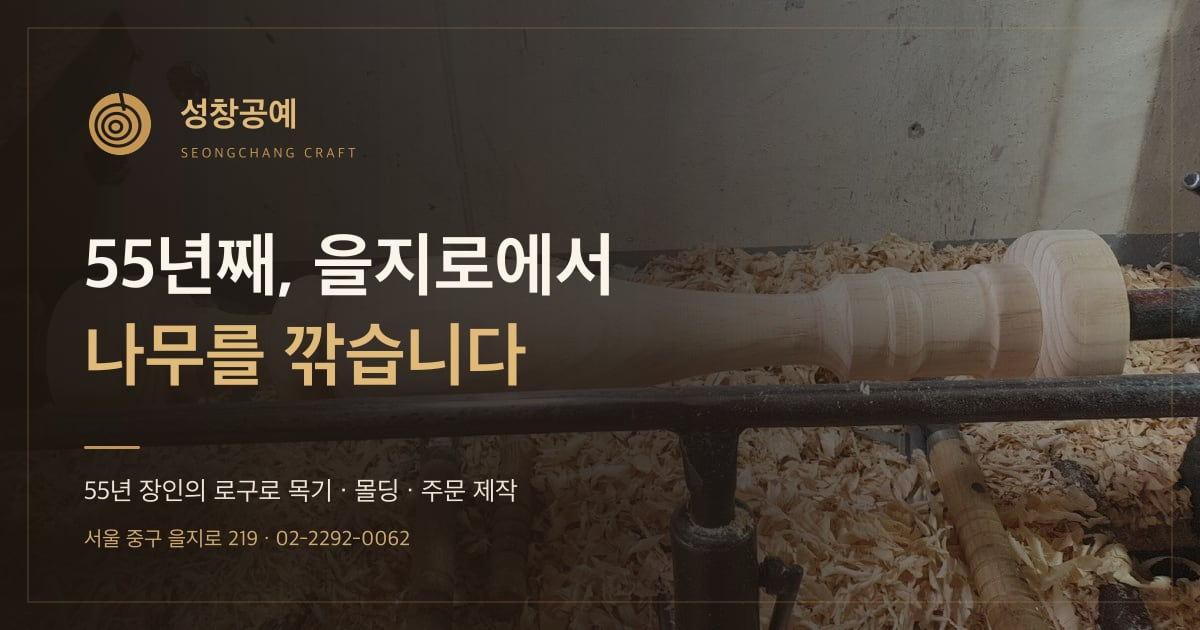
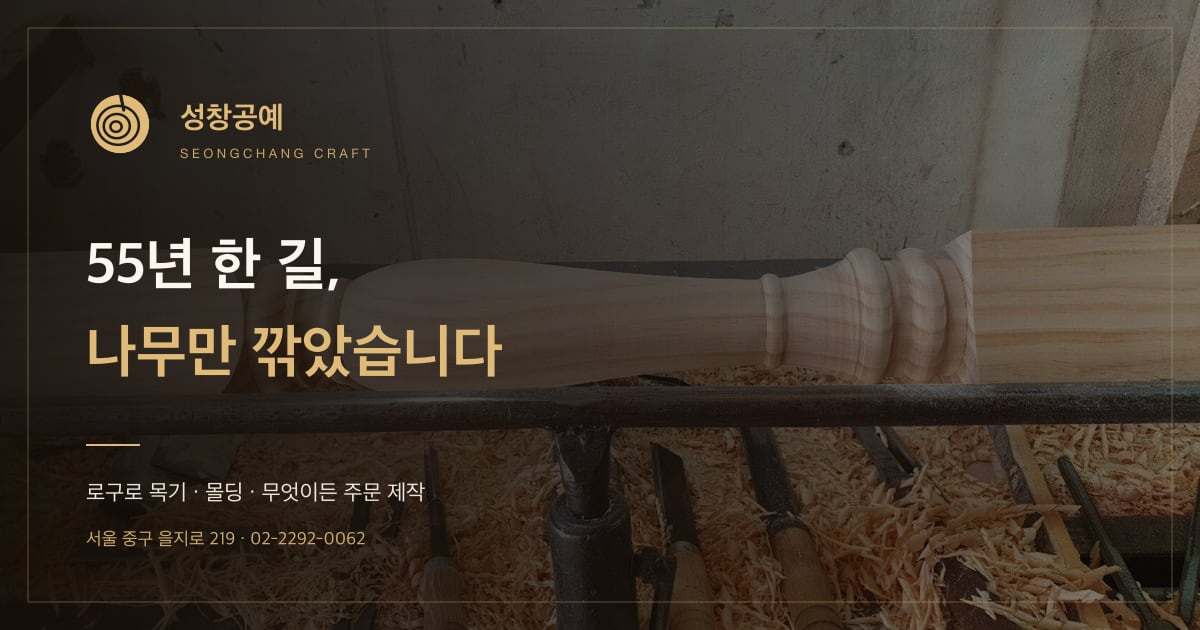
copy: 첫 화면 문구 '55년 한 길, 나무만 깎았습니다'로, 을지로 경력 표현 정리, 공유 이미지 다시 만듦
- 공장을 몇 번 옮기셔서 'N년 을지로에서' 표현을 4개 언어 모두 '한 길' 감성으로
- 영어·중국어에 글자로 박혀 있던 Fifty-five/五十五도 자동 계산으로
- scripts/make-og.mjs: 경력 연수를 반영해 공유 이미지 4장을 다시 만드는 스크립트

diff --git a/src/i18n/en.ts b/src/i18n/en.ts
@@ -28,7 +28,7 @@ const en: Dict = {
     menu: 'Open menu',
   },
   footer: {
-    tagline: `Turning wood on the lathe in Euljiro, Seoul, for ${YEARS} years.`,
+    tagline: `${YEARS} years on one path: turning wood on the lathe.`,
     explore: 'Explore',
     order: 'Order & Contact',
     orderForm: 'Order Form',
@@ -38,14 +38,14 @@ const en: Dict = {
     rights: 'All rights reserved.',
   },
   intro: {
-    sub: 'Fifty-five years of turning wood into things of use',
+    sub: `${YEARS} years of turning wood into things of use`,
     enter: 'Tap anywhere to enter',
   },
   hero: {
     kicker: 'Woodturning workshop · Made to order',
-    title1: 'Fifty-five years',
-    title2: 'turning wood in Euljiro',
-    lead: `Every piece is turned by a master who has worked the wood lathe for ${YEARS} years.`,
+    title1: `${YEARS} years, one craft —`,
+    title2: 'nothing but wood',
+    lead: 'From a single bowl to hundreds of columns — if it can be made of wood, we turn it.',
     tags: 'Wooden tableware · Moldings & cutting · Mass production · TV props · Student projects',
     order: 'Request an Order',
     call: 'Call Us',
@@ -195,7 +195,7 @@ const en: Dict = {
     metaTitle: 'About',
     metaDescription: `Meet Seongchang Craft, a woodturning workshop in Euljiro, Seoul, run by a master with ${YEARS} years of experience.`,
     tag: 'Our Workshop',
-    lead: 'Fifty-five years of turning wood in Euljiro, Seoul',
+    lead: `${YEARS} years on one path: a workshop that turns wood`,
     yearsSide: 'Hands that have shaped only wood',
     title1: 'How a block of wood',
     title2: 'becomes something useful',
@@ -208,10 +208,10 @@ const en: Dict = {
     galleryTag: 'Inside the Workshop',
     galleryTitle: 'A Euljiro Workshop That Smells of Sawdust',
     craftTag: 'The Maker',
-    craftTitle1: 'Fifty-five years on,',
+    craftTitle1: `${YEARS} years on,`,
     craftTitle2: 'still at the lathe every day',
     craftParagraphs: [
-      `I have been turning wood in Euljiro for ${YEARS} years. Even now, my favorite moment is looking at a drawing or a photo a customer brings in and thinking, “Ah, this is how I can turn it.”`,
+      `I have spent ${YEARS} years on one path: turning wood. Even now, my favorite moment is looking at a drawing or a photo a customer brings in and thinking, “Ah, this is how I can turn it.”`,
       'Whether it is one piece or several hundred, these are things people will hold in their hands, so I turn each one with the same care. If there is something you would like made, please give me a call. You will be welcomed with a smile.',
     ],
     craftSign: 'Choi Gwan-gyu, owner of Seongchang Craft',

diff --git a/src/i18n/ja.ts b/src/i18n/ja.ts
@@ -28,7 +28,7 @@ const ja: Dict = {
     menu: 'メニューを開く',
   },
   footer: {
-    tagline: `${YEARS}年、乙支路でろくろを回し、木を挽いています。`,
+    tagline: `${YEARS}年ひと筋、ろくろで木を挽いています。`,
     explore: 'サイト案内',
     order: 'ご注文・お問い合わせ',
     orderForm: 'ご注文フォーム',
@@ -40,9 +40,9 @@ const ja: Dict = {
   intro: { sub: `${YEARS}年、木を挽き、暮らしの道具をつくる`, enter: '画面をタップして入る' },
   hero: {
     kicker: 'ろくろ（木工旋盤）工房 · 注文制作',
-    title1: `${YEARS}年、乙支路で`,
-    title2: '木を挽いています',
-    lead: `${YEARS}年ろくろを回してきた職人が、ひとつひとつ自ら挽きます。`,
+    title1: `${YEARS}年ひと筋、`,
+    title2: '木だけを挽いてきました',
+    lead: '器ひとつから何百本もの柱まで、木でつくるものなら何でも挽きます。',
     tags: '木の器 · モールディング・裁断 · 量産 · 放送局への小道具納品 · 学生作品',
     order: 'ご注文の相談',
     call: '電話する',
@@ -173,7 +173,7 @@ const ja: Dict = {
     metaTitle: '工房について',
     metaDescription: `この道${YEARS}年の職人が、ソウル乙支路でろくろを使い木の器を挽く工房、ソンチャン工芸をご紹介します。`,
     tag: '工房紹介',
-    lead: `${YEARS}年、乙支路で木を挽き続ける工房`,
+    lead: `${YEARS}年ひと筋、木を挽き続ける工房`,
     yearsSide: '木だけを挽いてきた手',
     title1: '一本の木が',
     title2: '暮らしの道具になるまで',
@@ -189,7 +189,7 @@ const ja: Dict = {
     craftTitle1: `${YEARS}年目の今日も、`,
     craftTitle2: '木の前に立ちます',
     craftParagraphs: [
-      `乙支路で${YEARS}年、木を削ってきました。お客さまがお持ちになった図面や写真を見て「これはこう挽けばいい」と方法がひらめく瞬間が、今でもいちばん楽しいです。`,
+      `${YEARS}年ひと筋に、木を削ってきました。お客さまがお持ちになった図面や写真を見て「これはこう挽けばいい」と方法がひらめく瞬間が、今でもいちばん楽しいです。`,
       'ひとつでも数百個でも、手に触れる品ですから同じ気持ちで削ります。つくりたいものがあれば、どうぞ気軽にお電話ください。笑顔でお迎えします。',
     ],
     craftSign: 'ソンチャン工芸 代表 崔寛圭（チェ・グァンギュ）',

diff --git a/src/i18n/zh.ts b/src/i18n/zh.ts
@@ -28,7 +28,7 @@ const zh: Dict = {
     menu: '打开菜单',
   },
   footer: {
-    tagline: `${YEARS}年来，在首尔乙支路用车床旋木。`,
+    tagline: `${YEARS}年如一日，用车床旋木。`,
     explore: '浏览',
     order: '订购·咨询',
     orderForm: '填写订单',
@@ -40,9 +40,9 @@ const zh: Dict = {
   intro: { sub: `${YEARS}年，旋木成器，为生活所用`, enter: '轻触屏幕进入' },
   hero: {
     kicker: '木工车床工坊 · 接受定制',
-    title1: '五十五年来，',
-    title2: '在乙支路车木头',
-    lead: `由使用木工车床${YEARS}年的匠人亲手旋制每一件作品。`,
+    title1: `${YEARS}年如一日，`,
+    title2: '只与木头打交道',
+    lead: '从一只碗到数百根柱子，只要是木头能做的，我们都能车出来。',
     tags: '木制器皿 · 线条与裁切 · 批量生产 · 电视台道具供货 · 学生作品',
     order: '订购咨询',
     call: '致电',
@@ -160,7 +160,7 @@ const zh: Dict = {
     metaTitle: '工坊介绍',
     metaDescription: `介绍 Seongchang 工艺——拥有${YEARS}年经验的匠人在首尔乙支路用木工车床旋制木器的工坊。`,
     tag: '工坊介绍',
-    lead: `${YEARS}年，在乙支路旋木的工坊`,
+    lead: `${YEARS}年如一日旋木的工坊`,
     yearsSide: '一生只与木头打交道的手',
     title1: '一块木头',
     title2: '成为生活用器的过程',
@@ -173,10 +173,10 @@ const zh: Dict = {
     galleryTag: '工坊风景',
     galleryTitle: '弥漫木屑香的乙支路工坊',
     craftTag: '匠人',
-    craftTitle1: '第五十五年，',
+    craftTitle1: `第${YEARS}年，`,
     craftTitle2: '今天依然站在木头前',
     craftParagraphs: [
-      `我在乙支路车木头已经${YEARS}年了。看着客人带来的一张图纸、一张照片，忽然想到“这个这样车就行了”的那一刻，至今仍是我最快乐的时候。`,
+      `${YEARS}年来，我只做一件事：车木头。看着客人带来的一张图纸、一张照片，忽然想到“这个这样车就行了”的那一刻，至今仍是我最快乐的时候。`,
       '无论做一件还是几百件，都是要拿在手里用的东西，所以每一件都用同样的心意去车。有想做的东西，请随时打电话来，我会笑着迎接您。',
     ],
     craftSign: 'Seongchang 工艺 代表 崔宽圭',

diff --git a/src/i18n/ko.ts b/src/i18n/ko.ts
@@ -29,7 +29,7 @@ const ko = {
     menu: '메뉴 열기',
   },
   footer: {
-    tagline: `${YEARS}년, 을지로에서 나무를 돌려 깎습니다.`,
+    tagline: `${YEARS}년 한 길, 나무를 돌려 깎습니다.`,
     explore: '둘러보기',
     order: '주문·문의',
     orderForm: '주문서 작성',
@@ -44,9 +44,9 @@ const ko = {
   },
   hero: {
     kicker: '로구로(목선반) 공방 · 주문 제작',
-    title1: `${YEARS}년째, 을지로에서`,
-    title2: '나무를 깎습니다',
-    lead: `${YEARS}년 동안 로구로(목선반)를 돌려 온 장인이 직접 깎습니다.`,
+    title1: `${YEARS}년 한 길,`,
+    title2: '나무만 깎았습니다',
+    lead: '그릇 하나부터 수백 개 기둥까지, 나무로 만드는 것이라면 무엇이든 깎습니다.',
     tags: '목기 전문 · 몰딩·재단 · 대량 생산 · 방송국 소품 · 학생 작품',
     order: '주문 문의',
     call: '전화하기',
@@ -173,7 +173,7 @@ const ko = {
     metaTitle: '소개',
     metaDescription: `${YEARS}년 경력 장인이 서울 을지로에서 목선반(로구로)으로 목기를 깎는 공방, 성창공예를 소개합니다.`,
     tag: '공방 소개',
-    lead: `${YEARS}년, 을지로에서 나무를 돌려 깎는 공방`,
+    lead: `${YEARS}년 한 길, 나무를 돌려 깎는 공방`,
     yearsSide: '나무만 깎아 온 손',
     title1: '나무 한 토막이',
     title2: '쓰임이 되기까지',
@@ -189,7 +189,7 @@ const ko = {
     craftTitle1: `${YEARS}년째,`,
     craftTitle2: '오늘도 나무 앞에 섭니다',
     craftParagraphs: [
-      `을지로에서 ${YEARS}년 동안 나무를 깎아 왔습니다. 손님이 가져오신 도면 한 장, 사진 한 장을 보고 “이건 이렇게 깎으면 되겠다” 하고 방법이 떠오를 때가 지금도 가장 즐겁습니다.`,
+      `${YEARS}년 동안 한 길로 나무만 깎아 왔습니다. 손님이 가져오신 도면 한 장, 사진 한 장을 보고 “이건 이렇게 깎으면 되겠다” 하고 방법이 떠오를 때가 지금도 가장 즐겁습니다.`,
       '하나를 만들든 수백 개를 만들든, 손에 닿는 물건이라 같은 마음으로 깎습니다. 만들고 싶은 것이 있으면 편하게 전화 주세요. 웃으며 맞아 드리겠습니다.',
     ],
     craftSign: '성창공예 대표 최관규',
